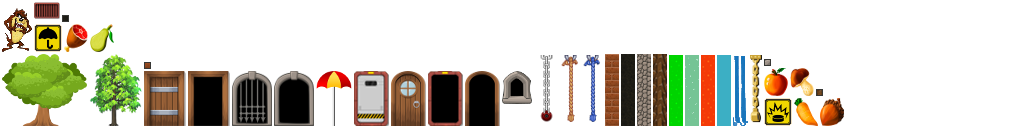
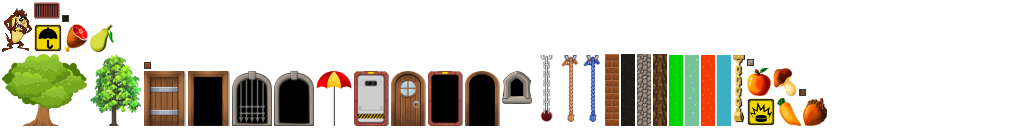
Added umbrella animation

Changed region(s): [[0.7188, 0.4062, 0.8438, 1.0]]

diff --git a/core/src/ru/mitrakov/self/rush/ui/Gui.java b/core/src/ru/mitrakov/self/rush/ui/Gui.java
@@ -67,6 +67,7 @@ public class Gui extends Actor {
     private final MyClickListener listener = new MyClickListener();
     private final TextureAtlas atlasDown = new TextureAtlas(Gdx.files.internal("pack/down.pack"));
     private final TextureAtlas atlasUp = new TextureAtlas(Gdx.files.internal("pack/up.pack"));
+    private final TextureAtlas atlasWaterfall = new TextureAtlas(Gdx.files.internal("pack/waterfall.pack"));
     private final TextureAtlas atlasRabbit = new TextureAtlas(Gdx.files.internal("pack/rabbit.pack"));
     private final TextureAtlas atlasHedgehog = new TextureAtlas(Gdx.files.internal("pack/hedgehog.pack"));
     private final TextureAtlas atlasSquirrel = new TextureAtlas(Gdx.files.internal("pack/squirrel.pack"));
@@ -77,8 +78,11 @@ public class Gui extends Actor {
     private final ObjectMap<Class, TextureRegion> texturesCollectible = new ObjectMap<Class, TextureRegion>(20);
     private final ObjectMap<Class, TextureRegion> texturesOverlay = new ObjectMap<Class, TextureRegion>(20);
     private final ObjectMap<Class, AnimInfo> texturesAnim = new ObjectMap<Class, AnimInfo>(3);
+    private final Animation<TextureRegion> animWaterfall;
+    private final Animation<TextureRegion> animWaterfallSmall;
 
     private long frameNumber = 0, lastMoveFrame = -FRAMES_PER_MOVE;
+    private float time = 0;
 
     private static float convertXFromModelToScreen(int x) {
         return x * CELL_SIZ_W + OFFSET_X;
@@ -119,7 +123,7 @@ public class Gui extends Actor {
         }
         // static up textures, each with 4 styles
         for (Class clazz : new Class[]{Block.class, LadderTop.class, LadderBottom.class, RopeLine.class, Water.class,
-                Stair.class, Waterfall.class, WaterfallSafe.class, DecorationStatic.class, DecorationWarning.class}) {
+                Stair.class, DecorationStatic.class, DecorationWarning.class}) {
             IntMap<TextureRegion> m = new IntMap<TextureRegion>(STYLES_COUNT); // .... GC!
             for (int i = 0; i < STYLES_COUNT; i++) {
                 String key = clazz.getSimpleName() + i;
@@ -164,6 +168,11 @@ public class Gui extends Actor {
 
             texturesAnim.put(clazz, new AnimInfo(animations, clazz != Actor2.class));
         }
+        // waterfall
+        Array<TextureAtlas.AtlasRegion> framesWaterfall = atlasWaterfall.findRegions("Waterfall");
+        Array<TextureAtlas.AtlasRegion> framesWaterfallSmall = atlasWaterfall.findRegions("WaterfallSmall");
+        animWaterfall = new Animation<TextureRegion>(.09f, framesWaterfall, Animation.PlayMode.LOOP);
+        animWaterfallSmall = new Animation<TextureRegion>(.09f, framesWaterfallSmall, Animation.PlayMode.LOOP);
         // backgrounds
         for (int i = 0; i < STYLES_COUNT; i++) {
             backgrounds.add(new Texture(Gdx.files.internal(String.format(Locale.getDefault(), "back/back%d.jpg", i))));
@@ -182,6 +191,7 @@ public class Gui extends Actor {
 
         float dt = Gdx.graphics.getDeltaTime();
         float dx = SPEED_X * dt, dy = SPEED_Y * dt;
+        time += dt;
 
         Field field = model.field; // model.field may suddenly become NULL at any moment, so a local var being used
         if (field != null) {
@@ -209,9 +219,11 @@ public class Gui extends Actor {
             }
             // draw 2-nd layer (static objects)
             drawObjects(field, batch, texturesStat, model.stylePack);
-            // draw 3-rd layer (collectible objects)
+            // draw 3-th layer (waterfalls)
+            drawWaterfalls(field, batch, time);
+            // draw 4-rd layer (collectible objects)
             drawObjects(field, batch, texturesCollectible);
-            // draw 4-th layer (animated characters)
+            // draw 5-th layer (animated characters)
             for (int j = 0; j < Field.HEIGHT; j++) {
                 for (int i = 0; i < Field.WIDTH; i++) {
                     Cell cell = field.cells[j * Field.WIDTH + i]; // cell != NULL (assert omitted)
@@ -269,9 +281,9 @@ public class Gui extends Actor {
                     }
                 }
             }
-            // draw 5-th layer (all overlaying objects like openedUmbrella)
+            // draw 6-th layer (all overlaying objects like openedUmbrella)
             drawObjects(field, batch, texturesOverlay);
-            // draw 6-th layer here...
+            // draw 7-th layer here...
         }
     }
 
@@ -282,6 +294,7 @@ public class Gui extends Actor {
     public void dispose() {
         atlasDown.dispose(); // disposing an atlas also disposes all its internal textures
         atlasUp.dispose();
+        atlasWaterfall.dispose();
         atlasRabbit.dispose();
         atlasHedgehog.dispose();
         atlasSquirrel.dispose();
@@ -340,6 +353,17 @@ public class Gui extends Actor {
         return false;
     }
 
+    private boolean umbrellaExists(Cell cell) {
+        if (cell != null) {
+            for (int i = 0; i < cell.objects.size(); i++) {  // .... GC!
+                CellObject obj = cell.objects.get(i);
+                if (obj instanceof OpenedUmbrella)
+                    return true;
+            }
+        }
+        return false;
+    }
+
     private void drawObjects(Field field, Batch batch, ObjectMap<Class, TextureRegion> map) {
         // field != null (assert omitted)
         for (int j = 0; j < Field.HEIGHT; j++) {
@@ -369,6 +393,30 @@ public class Gui extends Actor {
                     CellObject obj = cell.objects.get(k);
                     if (map.containsKey(obj.getClass())) {
                         TextureRegion texture = map.get(obj.getClass()).get(style);
+                        if (texture != null) {
+                            float x = convertXFromModelToScreen(i) - (texture.getRegionWidth() - bottomWidth) / 2;
+                            float y = convertYFromModelToScreen(j) + bottomHeight;
+                            batch.draw(texture, x, y);
+                        }
+                    }
+                }
+            }
+        }
+    }
+
+    @SuppressWarnings("ConstantConditions")
+    private void drawWaterfalls(Field field, Batch batch, float t) {
+        // field != null (assert omitted)
+        for (int j = 0; j < Field.HEIGHT; j++) {
+            for (int i = 0; i < Field.WIDTH; i++) {
+                Cell cell = field.cells[j * Field.WIDTH + i]; // cell != NULL (assert omitted)
+                float bottomWidth = getBottomWidth(cell), bottomHeight = getBottomHeight(cell);
+                boolean hasUmbrella = umbrellaExists(cell);
+                for (int k = 0; k < cell.objects.size(); k++) {  // .... GC!
+                    CellObject obj = cell.objects.get(k);
+                    if (obj instanceof Waterfall || obj instanceof WaterfallSafe) {
+                        Animation<TextureRegion> animation = hasUmbrella ? animWaterfallSmall : animWaterfall;
+                        TextureRegion texture = animation.getKeyFrame(t);
                         if (texture != null) {
                             float x = convertXFromModelToScreen(i) - (texture.getRegionWidth() - bottomWidth) / 2;
                             float y = convertYFromModelToScreen(j) + bottomHeight;
